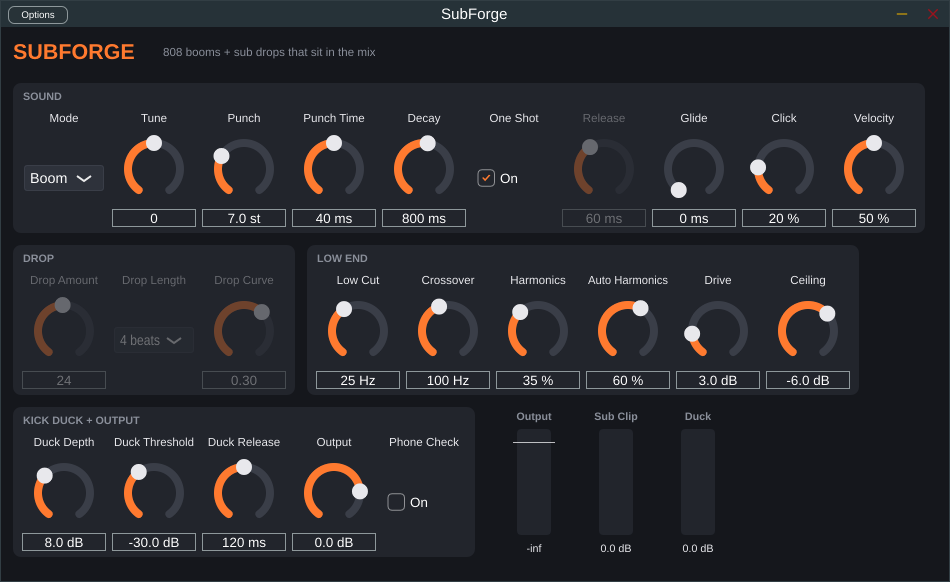
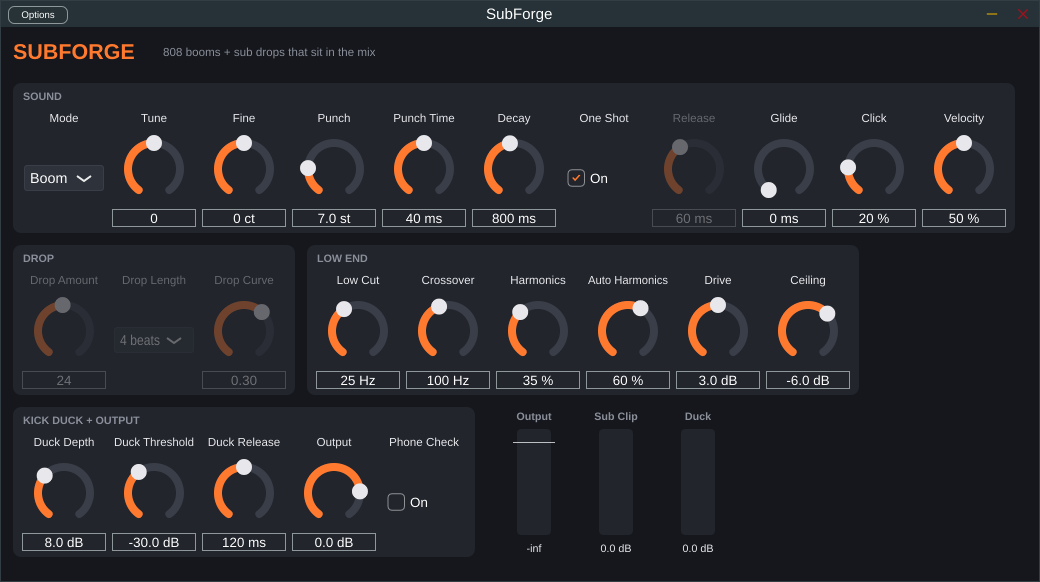
Add "Long 30 Hz Boom" preset matched to a reference 808, plus Fine tune
Measured the reference track's 808: ~127 Hz to 30 Hz dive in ~80 ms,
~5 dB decay over the first second, gated by note length, 2nd/3rd
harmonics ~20-25 dB down. To reach that sound:

- Add a Fine tune parameter (+/-100 cents); 30 Hz sits between notes
- Widen Punch to 36 st, Decay to 12 s, and allow negative Drive so the
  sub can sit cleanly under the ceiling
- Add factory presets (Default, Long 30 Hz Boom) exposed as programs
- Raise the reported tail length to cover the longer decay
- Test that the preset's settings land on 30 Hz and sustain

Claude-Session: https://claude.ai/code/session_01Q5bcDuivmYnrg8P9GsfyBg

diff --git a/Source/plugin/Parameters.h b/Source/plugin/Parameters.h
@@ -2,12 +2,16 @@
 
 #include <juce_audio_processors/juce_audio_processors.h>
 
+#include <utility>
+#include <vector>
+
 namespace subforge::params
 {
 
 // Parameter IDs. Changing one breaks saved sessions, so treat them as permanent.
 inline constexpr auto mode = "mode";
 inline constexpr auto tune = "tune";
+inline constexpr auto fine = "fine";
 inline constexpr auto punch = "punch";
 inline constexpr auto punchTime = "punchTime";
 inline constexpr auto decay = "decay";
@@ -64,9 +68,10 @@ inline juce::AudioProcessorValueTreeState::ParameterLayout createLayout()
     add (std::make_unique<AudioParameterChoice> (ParameterID { mode, 1 }, "Mode", modeChoices, 0));
     add (std::make_unique<AudioParameterInt> (ParameterID { tune, 1 }, "Tune", -24, 24, 0,
                                               AudioParameterIntAttributes().withLabel ("st")));
-    add (std::make_unique<AudioParameterFloat> (ParameterID { punch, 1 }, "Punch", NormalisableRange<float> (0.0f, 24.0f), 7.0f, unit ("st", 1)));
+    add (std::make_unique<AudioParameterFloat> (ParameterID { fine, 1 }, "Fine", NormalisableRange<float> (-100.0f, 100.0f), 0.0f, unit ("ct", 0)));
+    add (std::make_unique<AudioParameterFloat> (ParameterID { punch, 1 }, "Punch", NormalisableRange<float> (0.0f, 36.0f), 7.0f, unit ("st", 1)));
     add (std::make_unique<AudioParameterFloat> (ParameterID { punchTime, 1 }, "Punch Time", range (5.0f, 150.0f, 40.0f), 40.0f, unit ("ms", 0)));
-    add (std::make_unique<AudioParameterFloat> (ParameterID { decay, 1 }, "Decay", range (50.0f, 4000.0f, 700.0f), 800.0f, unit ("ms", 0)));
+    add (std::make_unique<AudioParameterFloat> (ParameterID { decay, 1 }, "Decay", range (50.0f, 12000.0f, 1000.0f), 800.0f, unit ("ms", 0)));
     add (std::make_unique<AudioParameterBool> (ParameterID { oneShot, 1 }, "One Shot", true));
     add (std::make_unique<AudioParameterFloat> (ParameterID { release, 1 }, "Release", range (5.0f, 2000.0f, 150.0f), 60.0f, unit ("ms", 0)));
     add (std::make_unique<AudioParameterFloat> (ParameterID { glide, 1 }, "Glide", range (0.0f, 500.0f, 80.0f), 0.0f, unit ("ms", 0)));
@@ -82,7 +87,7 @@ inline juce::AudioProcessorValueTreeState::ParameterLayout createLayout()
     add (std::make_unique<AudioParameterFloat> (ParameterID { crossover, 1 }, "Crossover", range (60.0f, 200.0f, 110.0f), 100.0f, unit ("Hz", 0)));
     add (std::make_unique<AudioParameterFloat> (ParameterID { harmonics, 1 }, "Harmonics", NormalisableRange<float> (0.0f, 1.0f), 0.35f, percent));
     add (std::make_unique<AudioParameterFloat> (ParameterID { autoHarmonics, 1 }, "Auto Harmonics", NormalisableRange<float> (0.0f, 1.0f), 0.6f, percent));
-    add (std::make_unique<AudioParameterFloat> (ParameterID { drive, 1 }, "Drive", NormalisableRange<float> (0.0f, 18.0f), 3.0f, unit ("dB", 1)));
+    add (std::make_unique<AudioParameterFloat> (ParameterID { drive, 1 }, "Drive", NormalisableRange<float> (-12.0f, 18.0f), 3.0f, unit ("dB", 1)));
     add (std::make_unique<AudioParameterFloat> (ParameterID { ceiling, 1 }, "Ceiling", NormalisableRange<float> (-18.0f, 0.0f), -6.0f, unit ("dB", 1)));
 
     add (std::make_unique<AudioParameterFloat> (ParameterID { duckDepth, 1 }, "Duck Depth", NormalisableRange<float> (0.0f, 24.0f), 8.0f, unit ("dB", 1)));
@@ -95,3 +100,28 @@ inline juce::AudioProcessorValueTreeState::ParameterLayout createLayout()
 }
 
 } // namespace subforge::params
+
+namespace subforge::presets
+{
+
+// Factory presets. Anything a preset doesn't list goes back to its default.
+struct Preset
+{
+    const char* name;
+    std::vector<std::pair<const char*, float>> values;
+};
+
+inline const std::vector<Preset> all {
+    { "Default", {} },
+
+    // Matched to a reference track: a 30 Hz 808 that dives from ~120 Hz,
+    // barely decays, and is cut off by the note end. Fine is set so B-1 in
+    // Logic plays 30 Hz; set it to 0 to stay at concert pitch.
+    { "Long 30 Hz Boom",
+      { { params::tune, 0.0f }, { params::fine, -49.0f }, { params::punch, 28.0f }, { params::punchTime, 22.0f },
+        { params::decay, 8000.0f }, { params::oneShot, 0.0f }, { params::release, 150.0f }, { params::click, 0.1f },
+        { params::lowCut, 18.0f }, { params::crossover, 60.0f }, { params::harmonics, 0.15f },
+        { params::autoHarmonics, 0.2f }, { params::drive, -3.0f }, { params::ceiling, -4.0f } } },
+};
+
+} // namespace subforge::presets

diff --git a/Source/plugin/PluginProcessor.cpp b/Source/plugin/PluginProcessor.cpp
@@ -22,6 +22,7 @@ SubForgeProcessor::SubForgeProcessor()
 
     p.mode = get (id::mode);
     p.tune = get (id::tune);
+    p.fine = get (id::fine);
     p.punch = get (id::punch);
     p.punchTime = get (id::punchTime);
     p.decay = get (id::decay);
@@ -85,7 +86,7 @@ subforge::EngineSettings SubForgeProcessor::readSettings() const
     const int lengthIndex = juce::jlimit (0, (int) std::size (subforge::params::dropLengthBeats) - 1,
                                           juce::roundToInt (p.dropLength->load()));
     s.dropBeats = subforge::params::dropLengthBeats[lengthIndex];
-    s.tuneSemis = p.tune->load();
+    s.tuneSemis = p.tune->load() + p.fine->load() / 100.0f;
     s.lowCutHz = p.lowCut->load();
     s.crossoverHz = p.crossover->load();
     s.driveDb = p.drive->load();
@@ -164,6 +165,29 @@ void SubForgeProcessor::processBlock (juce::AudioBuffer<float>& buffer, juce::Mi
     raiseMeter (meterOutputPeakDb, (float) meters.outputPeakDb);
     raiseMeter (meterSubReductionDb, (float) meters.subReductionDb);
     raiseMeter (meterDuckReductionDb, (float) meters.duckReductionDb);
+}
+
+void SubForgeProcessor::setCurrentProgram (int index)
+{
+    const auto& presets = subforge::presets::all;
+    if (index < 0 || index >= (int) presets.size())
+        return;
+
+    currentProgram = index;
+
+    for (auto* param : getParameters())
+        if (auto* ranged = dynamic_cast<juce::RangedAudioParameter*> (param))
+            ranged->setValueNotifyingHost (ranged->getDefaultValue());
+
+    for (const auto& [paramId, value] : presets[(size_t) index].values)
+        if (auto* param = apvts.getParameter (paramId))
+            param->setValueNotifyingHost (param->convertTo0to1 (value));
+}
+
+const juce::String SubForgeProcessor::getProgramName (int index)
+{
+    const auto& presets = subforge::presets::all;
+    return index >= 0 && index < (int) presets.size() ? presets[(size_t) index].name : juce::String();
 }
 
 juce::AudioProcessorEditor* SubForgeProcessor::createEditor()

diff --git a/tests/dsp_tests.cpp b/tests/dsp_tests.cpp
@@ -338,6 +338,30 @@ int main (int argc, char** argv)
         check (std::abs (hz - 98.0) < 2.0, "glide lands on the new note", fmt ("%.1f Hz (expect 98.0)", hz));
     }
 
+    // 12. The "Long 30 Hz Boom" preset settings: B-1 at -49 cents lands on 30 Hz
+    //     after a fast dive (the reference averages ~75 Hz over its first 25 ms),
+    //     and still sustains a second later.
+    {
+        EngineSettings s;
+        s.tuneSemis = -0.49;
+        s.voice.punchSemis = 28.0;
+        s.voice.punchMs = 22.0;
+        s.voice.decayMs = 8000.0;
+        s.voice.oneShot = false;
+        s.voice.releaseMs = 150.0;
+        s.voice.clickLevel = 0.0;
+        s.voice.harmonics = 0.0;
+        s.lowCutHz = 18.0;
+        s.driveDb = -3.0;
+        s.ceilingDb = -4.0;
+        const auto x = render (s, { { 0.0, 23, 1.0f }, { 2.4, 23, 0.0f } }, 3.0);
+        const double startHz = zeroCrossingHz (x, 0.0, 0.025);
+        const double settledHz = zeroCrossingHz (x, 0.4, 1.4);
+        const double sustainDb = gainToDb (rms (x, 1.0, 1.1)) - gainToDb (rms (x, 0.15, 0.25));
+        check (startHz > 60.0 && std::abs (settledHz - 30.0) < 0.3 && sustainDb > -8.0, "long 30 Hz boom preset",
+               fmt ("first 25 ms avg %.0f Hz, settles at %.2f Hz", startHz, settledHz) + fmt (", %.1f dB after 1 s", sustainDb));
+    }
+
     if (! outDir.empty())
     {
         EngineSettings boom;

diff --git a/Source/plugin/PluginProcessor.h b/Source/plugin/PluginProcessor.h
@@ -25,12 +25,12 @@ public:
     bool acceptsMidi() const override { return true; }
     bool producesMidi() const override { return false; }
     bool isMidiEffect() const override { return false; }
-    double getTailLengthSeconds() const override { return 4.0; }
+    double getTailLengthSeconds() const override { return 12.0; }
 
-    int getNumPrograms() override { return 1; }
-    int getCurrentProgram() override { return 0; }
-    void setCurrentProgram (int) override {}
-    const juce::String getProgramName (int) override { return {}; }
+    int getNumPrograms() override { return (int) subforge::presets::all.size(); }
+    int getCurrentProgram() override { return currentProgram; }
+    void setCurrentProgram (int index) override;
+    const juce::String getProgramName (int index) override;
     void changeProgramName (int, const juce::String&) override {}
 
     void getStateInformation (juce::MemoryBlock& destData) override;
@@ -49,12 +49,14 @@ private:
     void handleMidi (const juce::MidiMessage&);
 
     subforge::SubEngine engine;
+    int currentProgram = 0;
     juce::AudioBuffer<float> sidechainCopy;
 
     struct
     {
         std::atomic<float>* mode;
         std::atomic<float>* tune;
+        std::atomic<float>* fine;
         std::atomic<float>* punch;
         std::atomic<float>* punchTime;
         std::atomic<float>* decay;

diff --git a/Source/plugin/PluginEditor.cpp b/Source/plugin/PluginEditor.cpp
@@ -39,7 +39,7 @@ SubForgeEditor::SubForgeEditor (SubForgeProcessor& p)
     setLookAndFeel (&lookAndFeel);
 
     sound.title = "SOUND";
-    for (auto* paramId : { id::mode, id::tune, id::punch, id::punchTime, id::decay, id::oneShot, id::release,
+    for (auto* paramId : { id::mode, id::tune, id::fine, id::punch, id::punchTime, id::decay, id::oneShot, id::release,
                            id::glide, id::click, id::velocity })
         addControl (sound, paramId);
 
@@ -55,14 +55,14 @@ SubForgeEditor::SubForgeEditor (SubForgeProcessor& p)
     for (auto* paramId : { id::duckDepth, id::duckThreshold, id::duckRelease, id::output, id::phoneCheck })
         addControl (mix, paramId);
 
-    punchControl = sound.controls[2];
-    punchTimeControl = sound.controls[3];
-    releaseControl = sound.controls[6];
+    punchControl = sound.controls[3];
+    punchTimeControl = sound.controls[4];
+    releaseControl = sound.controls[7];
 
     for (auto* meter : { &outputMeter, &subMeter, &duckMeter })
         addAndMakeVisible (meter);
 
-    setSize (margin * 2 + cellWidth * 10 + 24, headerHeight + rowHeight * 3 + margin * 4);
+    setSize (margin * 2 + cellWidth * 11 + 24, headerHeight + rowHeight * 3 + margin * 4);
     startTimerHz (30);
 }
 

diff --git a/README.md b/README.md
@@ -36,6 +36,17 @@ follow a drop perfectly, with no pitch detection guesswork.
   Curve** (negative = fast start, positive = slow start then plunge). Use 12, 24
   or 36 semitones to land on the same note an octave or more lower, so it ends in key.
 
+## Presets
+
+Pick these from the preset menu at the top of the SubForge window in Logic.
+
+- **Default**: a punchy, slightly driven 808.
+- **Long 30 Hz Boom**: matched to a reference track by measuring its 808. It
+  dives from about 120 Hz to 30 Hz in roughly 80 ms, barely decays (about 5 dB
+  in the first second), and cuts off when the note ends. **Fine** is set to -49
+  cents so that **B-1** in Logic plays exactly 30 Hz. If your song is in
+  another key, set Fine back to 0 and play your root note.
+
 ## Building and installing in Logic (Mac)
 
 You need Xcode (from the App Store) and CMake (`brew install cmake`).
@@ -87,9 +98,9 @@ choose **AU Instruments → SubForge → SubForge**.
 | Section | Control | Range | Default |
 | --- | --- | --- | --- |
 | Sound | Mode | Boom / Drop | Boom |
-| | Tune | ±24 st | 0 |
-| | Punch / Punch Time | 0–24 st / 5–150 ms | 7 st / 40 ms |
-| | Decay | 50–4000 ms (time to fall 60 dB) | 800 ms |
+| | Tune / Fine | ±24 st / ±100 cents | 0 / 0 |
+| | Punch / Punch Time | 0–36 st / 5–150 ms | 7 st / 40 ms |
+| | Decay | 50–12000 ms (time to fall 60 dB) | 800 ms |
 | | One Shot / Release | on/off / 5–2000 ms | on / 60 ms |
 | | Glide | 0–500 ms | 0 |
 | | Click | 0–100 % | 20 % |
@@ -100,7 +111,7 @@ choose **AU Instruments → SubForge → SubForge**.
 | Low End | Low Cut | 15–60 Hz | 25 Hz |
 | | Crossover | 60–200 Hz | 100 Hz |
 | | Harmonics / Auto Harmonics | 0–100 % | 35 % / 60 % |
-| | Drive | 0–18 dB | 3 dB |
+| | Drive | -12 to +18 dB (negative keeps the sub clean under the ceiling) | 3 dB |
 | | Ceiling | -18 to 0 dBFS | -6 dBFS |
 | Kick Duck + Output | Duck Depth / Threshold / Release | 0–24 dB / -48–0 dB / 20–500 ms | 8 dB / -30 dB / 120 ms |
 | | Output | -24 to +6 dB (after the ceiling) | 0 dB |
